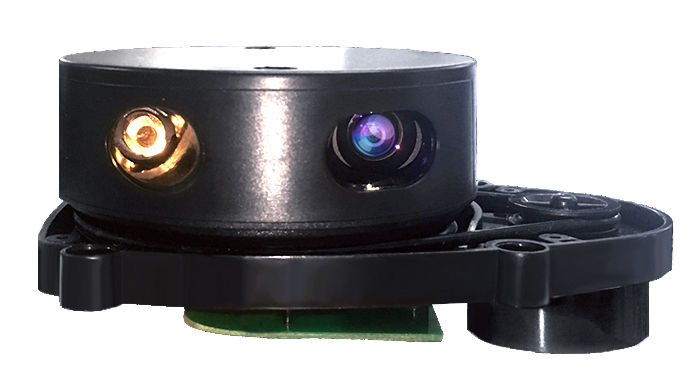
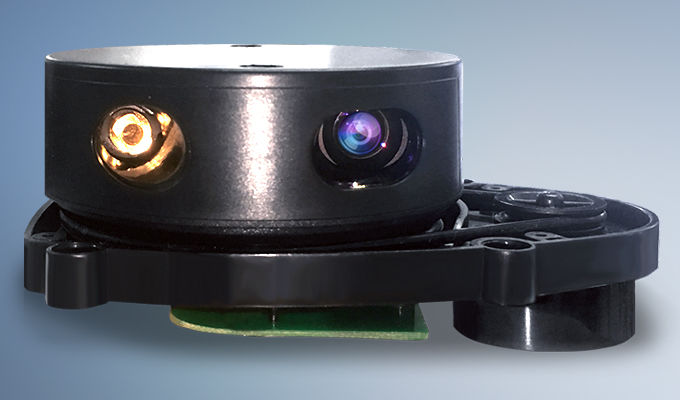
Add better camsense-x1 image and center it in readme

diff --git a/README.md b/README.md
@@ -18,7 +18,9 @@
 [Camsense-X1]: https://www.camsense.cn/en/robot/camsenseX1.html
 [embedded-hal]: https://github.com/rust-embedded/embedded-hal
 
-![Picture of Camsense-X1](camsense_x1.jpg)
+<figure style="align-items: center; text-align: center;">
+    <img alt="Picture of Camsense-X1" src="https://raw.githubusercontent.com/AnesBenmerzoug/embedded-camsense-x1/main/camsense_x1.jpg"/>
+</figure>
 
 This library provides a `no_std` interface for interacting with the [Camsense-X1] LiDAR sensor.
 